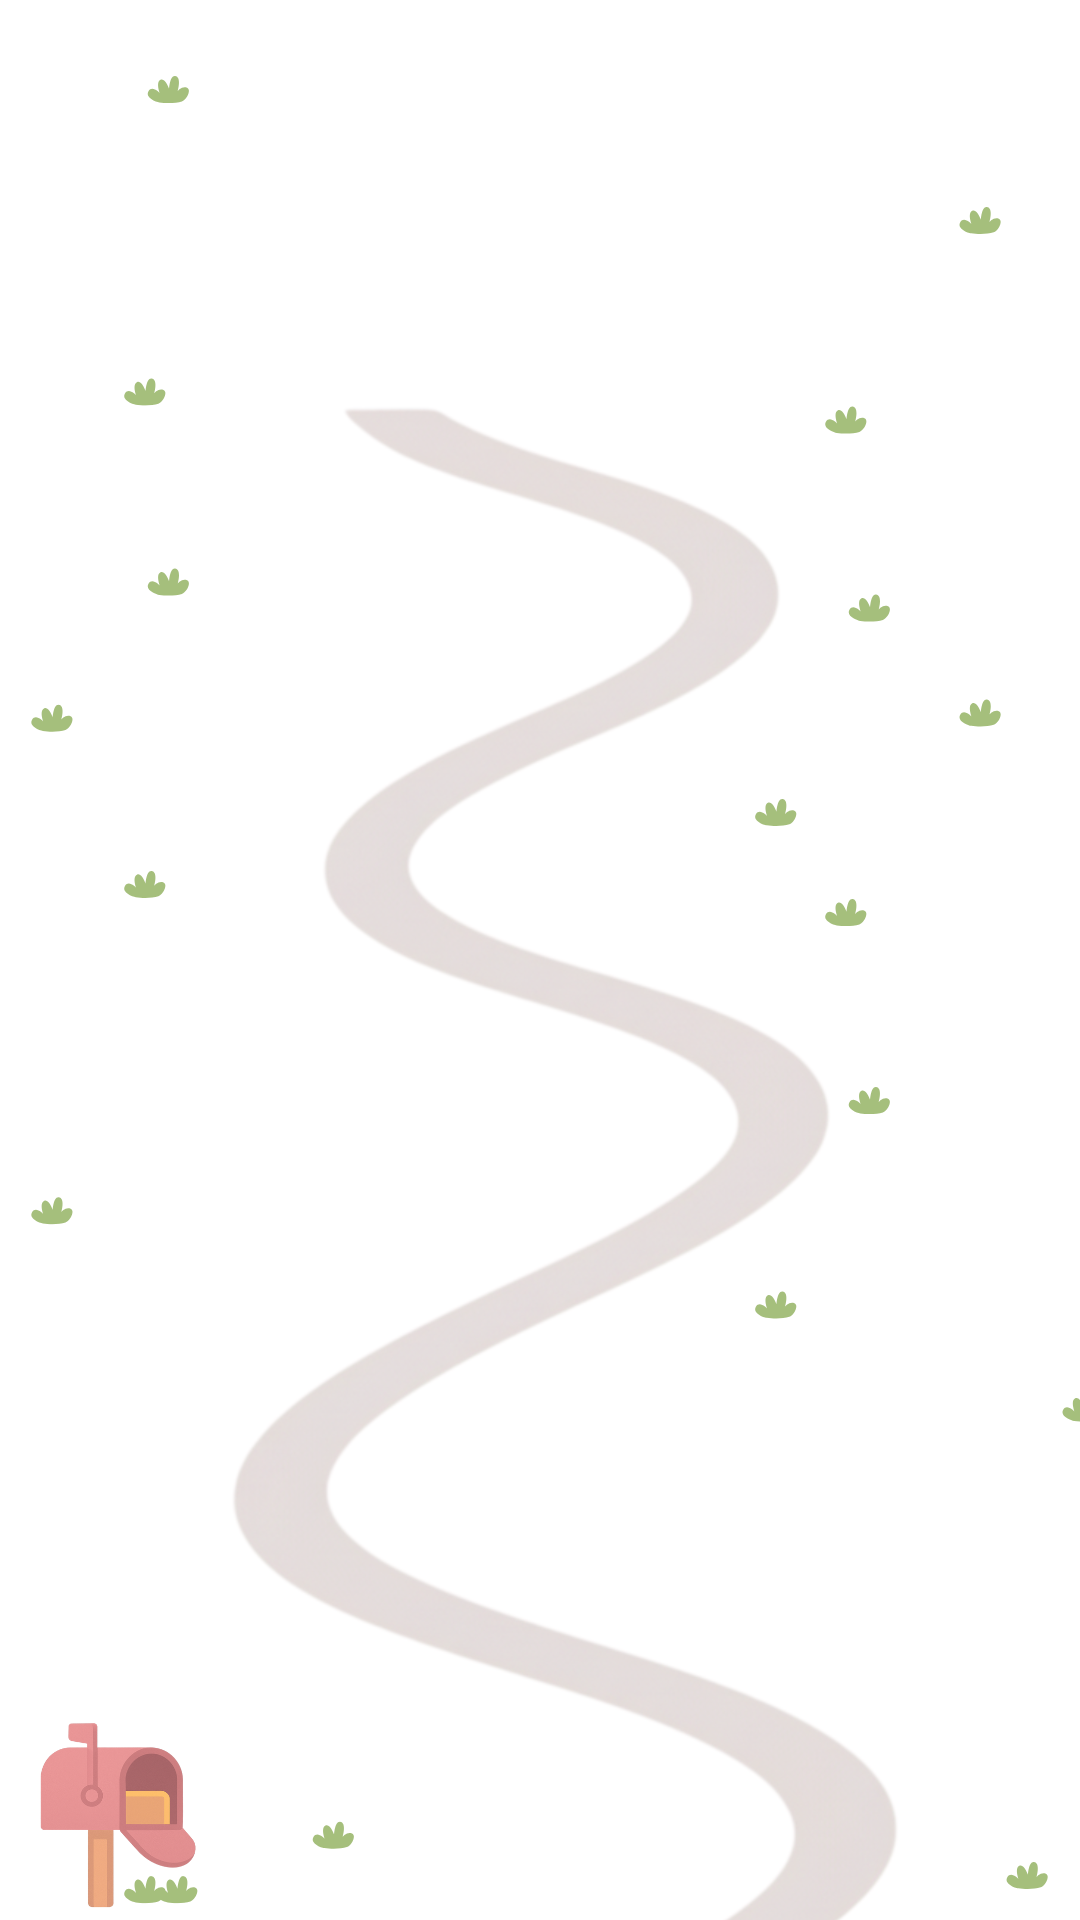
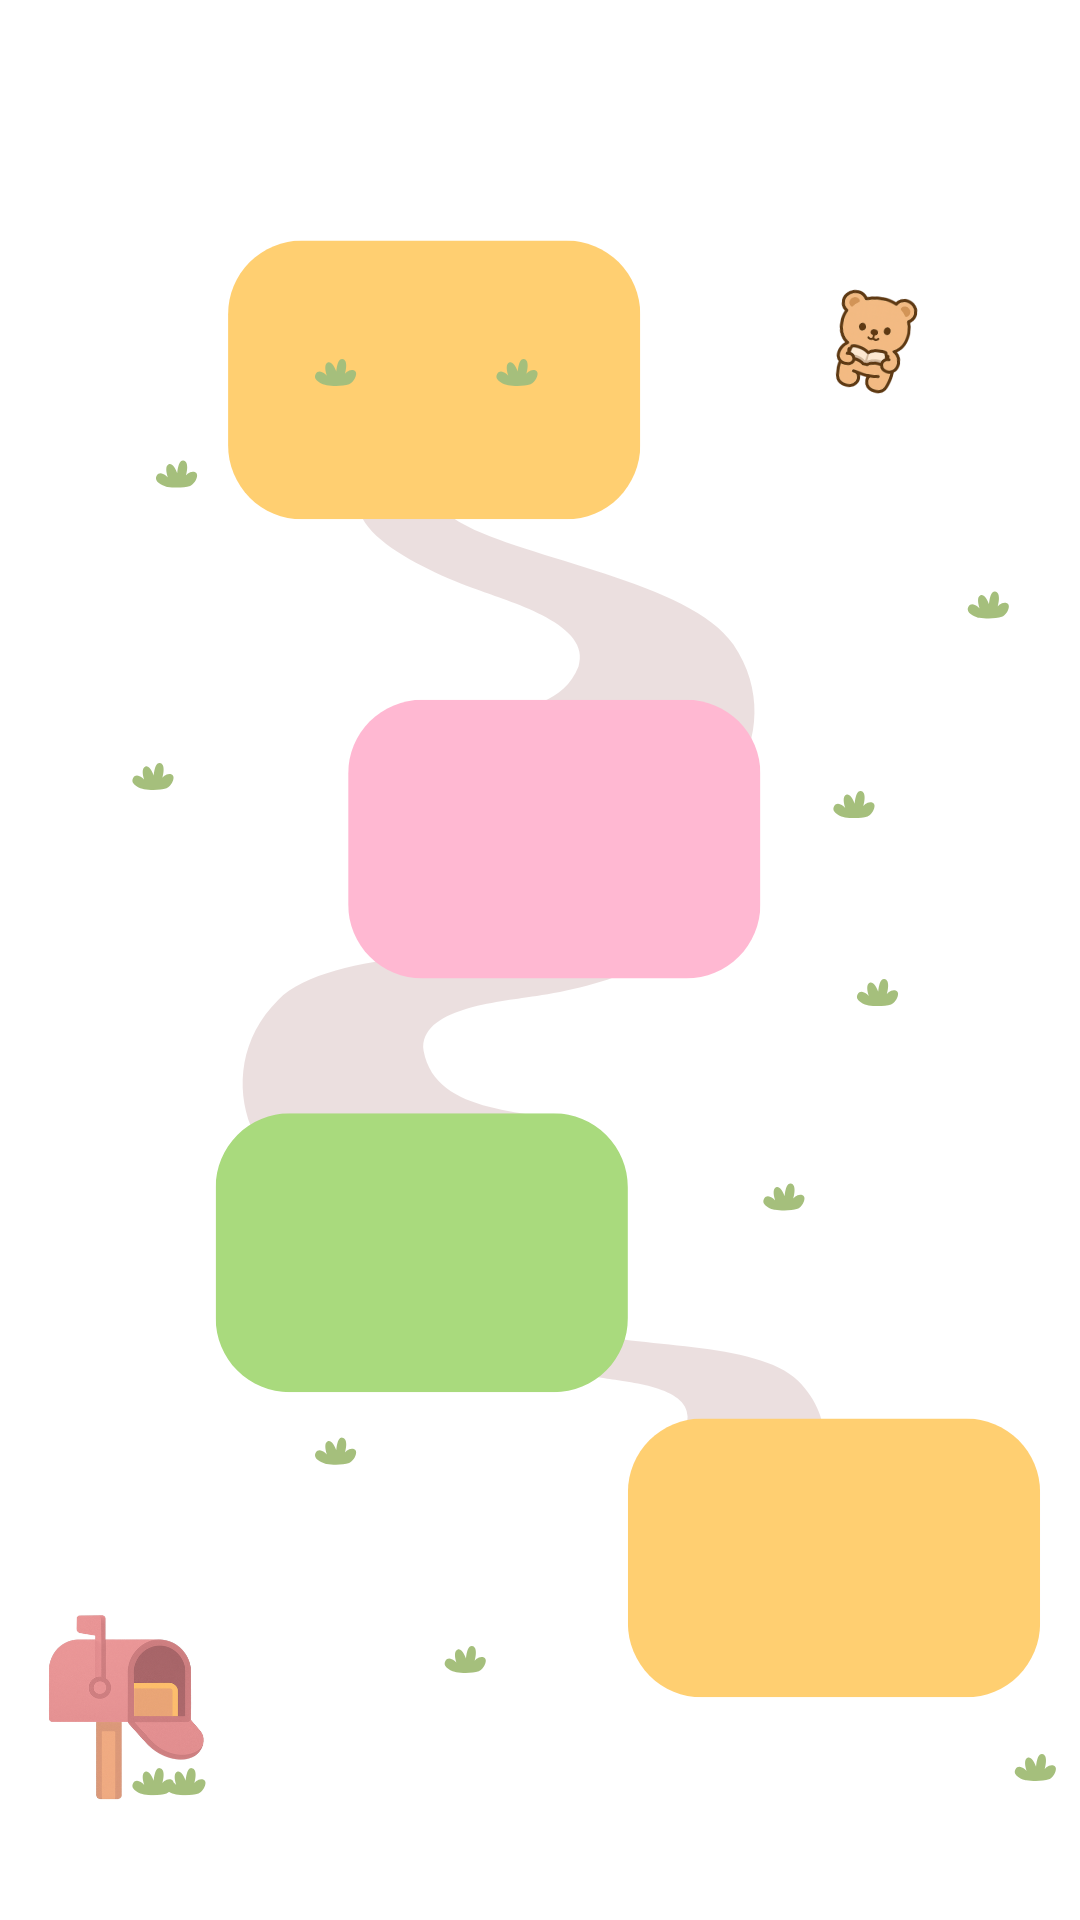
hhh

diff --git a/css/mapa-atividades-style.css b/css/mapa-atividades-style.css
@@ -32,6 +32,7 @@ body {
 
 /* --- MAPA --- */
 .mapa-container {
+    padding-top: 60px;
     position: relative; /* Container pai para o posicionamento absoluto */
     width: 100%;
     max-width: 450px;
@@ -89,12 +90,31 @@ body {
     cursor: pointer;
     transition: transform 0.2s;
 }
+
+.barra {
+    position: absolute;
+    background-color: #f7e099;
+    border-radius: 20px; 
+    box-shadow: 0 4px 8px rgba(0,0,0,0.1);
+    display: flex;
+    flex-direction: column;
+    align-items: center;
+    justify-content: center;
+    padding: 10px;
+    width: 350px; 
+    height: 60px; 
+    border: none;
+    cursor: pointer;
+    margin: 10px;
+    padding-bottom: 30px;
+}
+
 .licao-ponto:hover { transform: scale(1.05) translateX(-50%); }
 .licao-ponto .icone-licao { width: 50px; height: 50px; object-fit: contain; margin-bottom: 5px; }
 .licao-ponto p { margin: 0; font-size: 16px; font-weight: bold; color: #333; text-align: center; }
 
 /* Cores dos botões */
-.licao-ponto.cor-1 { background-color: #F7E099; }
+.licao-ponto.cor-1 { background-color: #ffcf71; }
 .licao-ponto.cor-2 { background-color: #FFB3D9; }
-.licao-ponto.cor-3 { background-color: #A0E6BA; }
-.licao-ponto.cor-4 { background-color: #F7E099; }
+.licao-ponto.cor-3 { background-color: #a9da7d; }
+.licao-ponto.cor-4 { background-color: #ffcf71; }

diff --git a/scripts/scriptMapaAtividades.js b/scripts/scriptMapaAtividades.js
@@ -10,15 +10,14 @@ document.addEventListener('DOMContentLoaded', () => {
     // --- POSIÇÕES DAS LIÇÕES (AJUSTE AQUI!) ---
     // Você ainda precisará ajustar estes valores após a tela ficar com a rolagem correta.
     const posicoes = [
-        { top: '10%', left: '50%' },   // Posição da Lição 1
-        { top: '25%', left: '50%' },   // Posição da Lição 2
-        { top: '40%', left: '50%' },   // Posição da Lição 3
-        { top: '55%', left: '80%' },   // Posição da Lição 4
-        { top: '70%', left: '50%' },   // Posição da Lição 5
-        // ... adicione as posições para as suas 20 lições aqui
+        { top: '22%', left: '40%' },   // Posição da Lição 1
+        { top: '47%', left: '52%' },   // Posição da Lição 2
+        { top: '68%', left: '39%' },   // Posição da Lição 3
+        { top: '84%', left: '77%' },   // Posição da Lição 4
+        // ... adicione as posições para as suas 20 lições 8
     ];
 
-    const coresBotoes = ['cor-1', 'cor-2', 'cor-3', 'cor-4'];
+    const coresBotoes = ['cor-1', 'cor-2', 'cor-3', 'cor-4', 'cor-2',  'cor-3'];
 
     // Função para criar e posicionar os botões
     const criarLicoes = () => {

diff --git a/scripts/dadosLicoes.js b/scripts/dadosLicoes.js
@@ -28,6 +28,20 @@ const DADOS_LICOES = [
         descricao: "Identifique objetos do dia a dia.",
         icone: '/DudyApp/assets/pizza.svg', // Ícone para a Lição 3
         atividades: [11, 12, 13, 14, 15] // Sequência de 5 novas atividades
+    },
+    {
+        id: 6,
+        titulo: "Foods 6",
+        descricao: "Identifique objetos do dia a dia.",
+        icone: '/DudyApp/assets/pizza.svg', // Ícone para a Lição 3
+        atividades: [11, 12, 13, 14, 15] // Sequência de 5 novas atividades
+    },
+     {
+        id: 5,
+        titulo: "Foods 5",
+        descricao: "Identifique objetos do dia a dia.",
+        icone: '/DudyApp/assets/pizza.svg', // Ícone para a Lição 3
+        atividades: [11, 12, 13, 14, 15] // Sequência de 5 novas atividades
     }
 ];
 

diff --git a/telas/telaMapaLicoes.html b/telas/telaMapaLicoes.html
@@ -14,15 +14,17 @@
             <h1 class="text_maior">Atividades</h1>
         </div>
     </header>
+    <div class="barra"></div>
     
     <div class="mapa-container">
         <div class="mapa-background-images">
             <img src="../assets/img/inicio.png" alt="Início do Caminho" class="mapa-caminho-parte">
-            <img src="../assets/img/meiofim.png" alt="Meio e Fim do Caminho" class="mapa-caminho-parte">
+           
             </div>
         
         <div id="licoes-container"></div>
     </div>
+     <div class="barra"></div>
 
     <script src="../scripts/dadosLicoes.js"></script> 
     <script src="../scripts/scriptMapaAtividades.js"></script>
